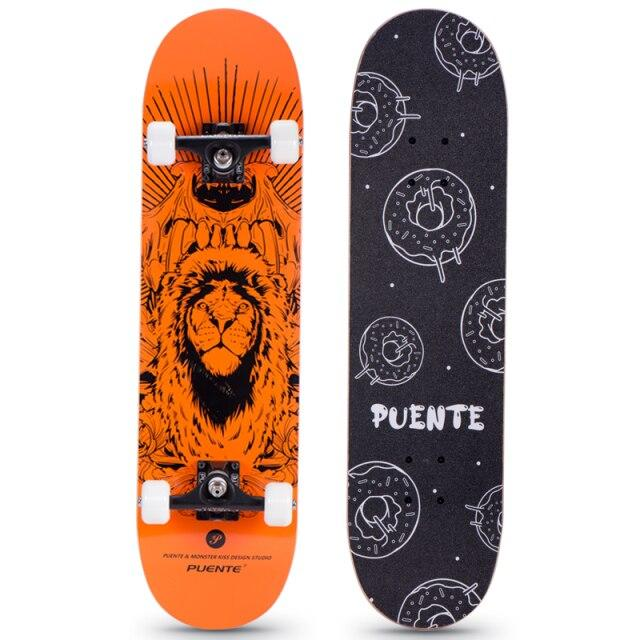
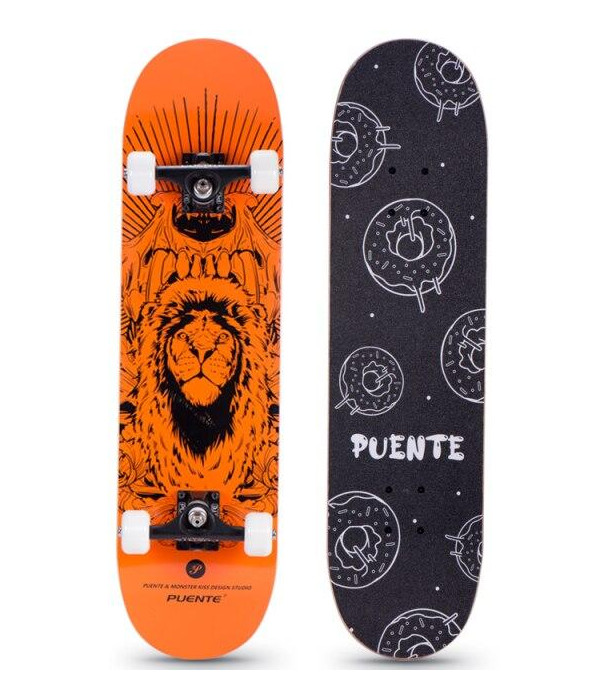
bonnes photos

Changed region(s): [[0.18, 0.0, 0.48, 1.0], [0.54, 0.0, 0.84, 1.0], [0.69, 0.5625, 0.72, 0.5938]]

diff --git a/Projet TD/data/Page_Skate/Produit1.html b/Projet TD/data/Page_Skate/Produit1.html
@@ -37,7 +37,7 @@
             <div class="fiche">
                 <div class="container">
                     <div class="slider">
-                      <img class="active" src="../../data/img/skate1.png" alt="photo dessus et dessous planche fumée">
+                      <img class="active" src="../../data/img/skate1.jpg" alt="photo dessus et dessous planche fumée">
                       <img src="../../data/img/planche_fumee.jpg" alt="photo dessous planche fumée">
                       <img src="../../data/img/haut_skate.jpg" alt="photo dessus planche fumée">
                       <a class="prec" onclick="slidePrecedente()">&#10094;</a>
